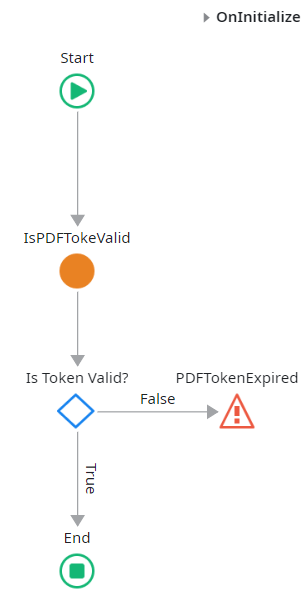
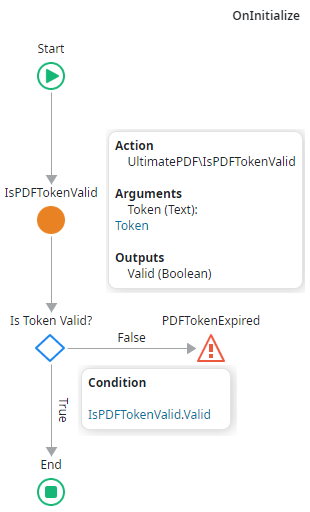
Updated documentation to highlight security concerns raised from Ultimate PDF usage.

diff --git a/README.md b/README.md
@@ -97,6 +97,26 @@ The simplest way to generate a PDF is by:
 1. Build the report
 1. Call the server action `PrintToPDF` to generate the PDF (from UltimatePDF)
 
+> [!WARNING]  
+> CRITICAL SECURITY RISK: Client-Side Exposure
+> 
+> To prevent unauthorized access to Ultimate PDF capabilities, **NEVER** trigger the actions listed below via client-side logic.
+> 
+> **Crucial Rule:** You must never pass the report URL to Ultimate PDF from the client side. Always handle this logic exclusively on the server side.
+>
+> **Affected Actions:**
+> * PrintPDF (UltimatePDF_ExternalLogic🔌)
+> * PrintPDF_ToRest (UltimatePDF_ExternalLogic🔌)
+> * PrintPDF_ToS3 (UltimatePDF_ExternalLogic🔌)
+> * ScreenshotPNG (UltimatePDF_ExternalLogic🔌)
+> * PrintToPDF (Ultimate PDF Library📚)
+> * PrintToPDF_Advanced (Ultimate PDF Library📚)
+> * PrintToPDF_Advanced_ToRest (Ultimate PDF Library📚)
+> * PrintToPDF_Advanced_ToS3 (Ultimate PDF Library📚)
+> * ScreenshotToPNG (Ultimate PDF Library📚)
+> * ScreenshotToPNG_Advanced (Ultimate PDF Library📚)
+> * DEPRECATED_PrintToPDF_Advanced (Ultimate PDF Library📚)
+
 <p align="right">(<a href="#readme-top">back to top</a>)</p>
 
 ## Public Elements
@@ -152,30 +172,34 @@ In the instructions bellow we will assume that the application that is generatin
 1. Add an input parameter named `Token` (Data Type = Text, Is Mandatory = Yes)
 1. Delete the web block `Layouts\LayoutTopMenu`
 1. Fill the screen with the information to have in the PDF
-1. Add `On Initialize` event, and add a call to IsPDFTokenValid with the `Token` as parameter
+1. Add `On Initialize` event, and add a call to IsPDFTokenValid with the `Token` as parameter [Picture](images/OnInitialize.png)
 1. Add a if clause `IsPDFTokeValid.Valid`, and end the *False* branch with and exception `PDFTokenExpired`
 1. Add `On Ready` event, and add a call to `ExpireToken` with the `Token` as parameter
-1. On another screen create a button to generate the PDF
+1. Create a Server Action `GeneratePDF` [Picture](images/GeneratePDF.png)
+    * ➡️ Input Parameter(Name: "Locale", Data Type: "Text")
+    * ➡️ Input Parameter(Name: "Timezone", Data Type: "Text")
+    * ⬅️ Output Parameter(Name: "Filename", DataType: "Text")
+    * ⬅️ Output Parameter(Name: "File", DataType: "Binary Data")
+    * Local Variable(Name: "ReportBaseUrl", DataType: "Text", Default Value: "https://example.com")
 1. Call the Server Action `GeneratePDFToken`
 1. Call the Server Action `PrintToPDF_Advanced`
-  * URL - url for the page to be generated. In this example, the screen was created at _2._
-  * Environment - information of the environment where the browser will be launched. Can use the output of the Client Action `CurrEnvironment`.
-  * PaperSize - Paper size measures separated by _x_ (eg: "21.00x29.70"). Can use the Static Entity `PaperSize` from `UltimatePDF`.
-  * MarginSize - Paper margin size separated by _x_ (eg: "2.50x3.00x2.50x3.00"). Can use the Static Entity `MarginSize` from `UltimatePDF`.
-  * Viewport - Bowser viewport configuration.
-  * CollectLogs - If the execution of the external logic collects logs. If True, the output parameter LogsZipFile has the logs, it's empty otherwise.
-  * Cookies - Cookie values to be used in the browser that will be launched.
-  * TimeoutSeconds - Timeout in seconds the browser will wait to render and generate the PDF.
-  * AttachFilesLogs - When exporting the log files control if they should include the PDF generation files. Having this flag true will increase the size of the log files.
-  * PDF _(Output parameter)_ - The PDF file binary data. Empty if RestCaller is passed.
-  * LogsZipFile _(Output parameter)_ - The logs of the external logic execution. Empty if RestCaller is passed.
-1. Call Download with the output parameter *PDF* of the Server Action `PrintToPDF_Advanced`
-
-<img src="images/OnInitialize.png" width="200" height="auto"/><img src="images/OnClick.png" width="200" height="auto"/>
+    * URL - url for the page to be generated. In this example, the screen was created at _2._
+    * Environment - information of the environment where the browser will be launched. Can use the output of the Client Action `CurrEnvironment`.
+    * PaperSize - Paper size measures separated by _x_ (eg: "21.00x29.70"). Can use the Static Entity `PaperSize` from `UltimatePDF`.
+    * MarginSize - Paper margin size separated by _x_ (eg: "2.50x3.00x2.50x3.00"). Can use the Static Entity `MarginSize` from `UltimatePDF`.
+    * Viewport - Bowser viewport configuration.
+    * CollectLogs - If the execution of the external logic collects logs. If True, the output parameter LogsZipFile has the logs, it's empty otherwise.
+    * Cookies - Cookie values to be used in the browser that will be launched.
+    * TimeoutSeconds - Timeout in seconds the browser will wait to render and generate the PDF.
+    * AttachFilesLogs - When exporting the log files control if they should include the PDF generation files. Having this flag true will increase the size of the log files.
+    * PDF _(Output parameter)_ - The PDF file binary data. Empty if RestCaller is passed.
+    * LogsZipFile _(Output parameter)_ - The logs of the external logic execution. Empty if RestCaller is passed.
+1. Add a button to the screen that will generate the PDF [Picture](images/OnClick.png)
+1. Call Download with the output parameter *File* of the Server Action `GeneratePDF`
 
 ### Screen to PDF
 
-1. At the Logic table add a System Event > On Application Ready
+1. At the Logic table add a System Event > On Application Ready [Picture](images/OnApplicationReadyScreen.png)
 1. Add a call to `OnApplicationReady_UltimatePDF`
 1. Create a Flow named *Print*, if not present
 1. Add an empty screen
@@ -184,15 +208,13 @@ In the instructions bellow we will assume that the application that is generatin
 1. Delete the web block `Layouts\LayoutTopMenu`
 1. Add the web block `PrintLayout\ScreenToPDF`
 1. Fill the screen with the information to have in the PDF
-1. Add `On Initialize` event, and add a call to `IsPDFTokenValid` with the `Token` as parameter
+1. Add `On Initialize` event, and add a call to `IsPDFTokenValid` with the `Token` as parameter [Picture](images/OnInitializeScreen.png)
 1. Add a if clause `IsPDFTokeValid.Valid`, and end the *False* branch with and exception `PDFTokenExpired`
 1. Add a call to `ScreenToPDF_OnInitialize`
-1. Add `On Ready` event, and add a call to `ExpireToken` with the `Token` as parameter
-1. On another screen create a link with an action on click
+1. Add `On Ready` event, and add a call to `ExpireToken` with the `Token` as parameter [Picture](images/OnReadyScreen.png)
+1. On another screen create a link with an action on click [Picture](images/OnClickScreen.png)
 1. Call the Server Action `GeneratePDFToken`
 1. End the flow with a destination to the screen created at 2.
-
-<img src="images/OnApplicationReadyScreen.png" width="200" height="auto"/><img src="images/OnInitializeScreen.png" width="200" height="auto"/><img src="images/OnReadyScreen.png" width="200" height="auto"/><img src="images/OnClickScreen.png" width="200" height="auto"/>
 
 ### External Logic call Rest API to store the PDF
 
@@ -209,13 +231,13 @@ The Template_UltimatePDF already creates a REST API named *pdf* with two methods
 1. On another screen create a button to generate the PDF
 1. Call the Server Action `GeneratePDFToken`
 1. Call the Server Action `PrintToPDF_Advanced_ToRest`, fill the RestCaller parameter
-  * Token - The token of the printable page, we use it for REST API authentication.
-  * BaseUrl - base tenant url, eg: _https://tenant.outsystems.com_
-  * Module - Name of the module that implements the REST API, can use `GetOwnerURLPath()`
-  * StorePath - Rest method URL Path to store the PDF, eg: `/rest/pdf/Store`
-  * LogPath - Rest method URL Path to store the logs, eg: `/rest/pdf/StoreLogs`
-  * The PDF will be stored at the entity `GeneratedPDF_Files`
-  * The Logs will be stored at the entity `GeneratedPDF_Logs`, if requested
+    * Token - The token of the printable page, we use it for REST API authentication.
+    * BaseUrl - base tenant url, eg: _https://tenant.outsystems.com_
+    * Module - Name of the module that implements the REST API, can use `GetOwnerURLPath()`
+    * StorePath - Rest method URL Path to store the PDF, eg: `/rest/pdf/Store`
+    * LogPath - Rest method URL Path to store the logs, eg: `/rest/pdf/StoreLogs`
+    * The PDF will be stored at the entity `GeneratedPDF_Files`
+    * The Logs will be stored at the entity `GeneratedPDF_Logs`, if requested
 
 ### External Logic call S3 Bucket to store the PDF
 
@@ -232,17 +254,13 @@ More information on S3 buckets and presigned urls can be found in official <a hr
 1. On another screen create a button to generate the PDF
 1. Call the Server Action `GeneratePDFToken`
 1. Call the Server Action `PrintToPDF_Advanced_ToS3`, fill the S3Endpoints parameter
-  * PdfPreSignedUrl - Presigned url to a S3 Bucket to store the resulting PDF
-  * LogsPreSignedUrl - Presigned url to a S3 Bucket to store the resulting logs
+    * PdfPreSignedUrl - Presigned url to a S3 Bucket to store the resulting PDF
+    * LogsPreSignedUrl - Presigned url to a S3 Bucket to store the resulting logs
 
 ### Basic page screenshot
 
-1. Create an empty screen
-1. Add to the screen the web block `PrintLayout` (from UltimatePDF)
-1. Build the report
-1. Call the server action `ScreenshotToPNG` to generate the image (from UltimatePDF)
-
-<img src="images/screenshot.png"/>
+1. Create a server action `TakeScreenshot`
+1. Call the server action `ScreenshotToPNG` to generate the image (from UltimatePDF) [Picture](images/screenshot.png)
 
 ### Add Fonts to the Report
 